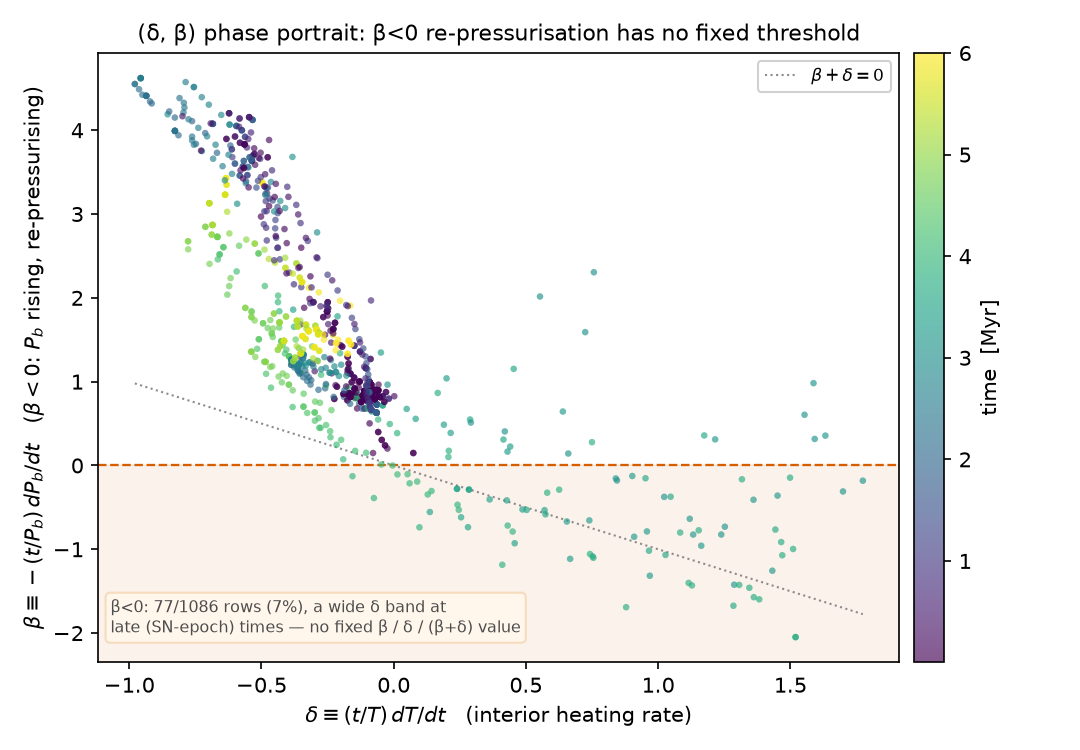
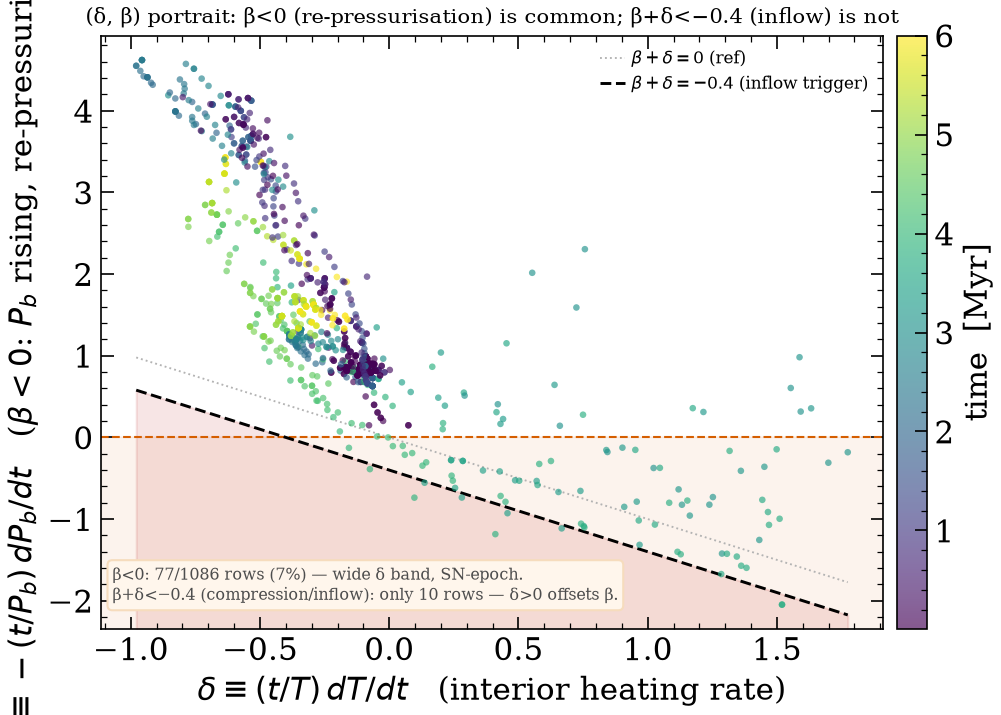
correct the structural diagnostic: beta+delta (not beta alone, not beta+delta=0)
Per docs/dev/archive/betadelta/: the interior velocity is driven by the dv/dr source
(beta+delta)/t = -t*dln(n)/dt, with an inflow trigger at beta+delta <~ -0.4 (-0.5 steep)
-- NOT beta alone, NOT beta+delta=0. beta<0 alone is only re-pressurisation (Pb rising);
delta>0 (T rising) partly cancels it.

Measured on our six (data/betadelta_summary.csv): beta dives to -1.6 (re-pressurisation
in 5/6), but beta+delta crosses -0.4 in ONLY large_diffuse (10 rows) -- delta offsets beta
everywhere else, so the compression/inflow trigger is essentially never reached. The
archive's inflow is 'real but cosmetic' (subsonic, ~1e-6 thermal), so this corrects the
diagnostic FRAMING, not the trigger verdict.

- plot_beta.py: now plots beta AND beta+delta with the -0.4 trigger line + sub-trigger
  shading; reads h0 (canonical); fixed parents[2]->parents[3] style-path bug.
- plot_phaseportrait.py: draws beta+delta=-0.4 (inflow trigger) + shaded region; the
  beta+delta=0 line demoted to a faint reference; same style-path fix.
- report: added the 'beta alone vs beta+delta' correction box; fixed the beta + portrait
  captions (removed the beta+delta=0 framing).
- data/betadelta_summary.csv: per-config min(beta), min(beta+delta), rows<-0.4.

diff --git a/docs/dev/transition/cleanroom/plot_beta.py b/docs/dev/transition/cleanroom/plot_beta.py
@@ -1,9 +1,17 @@
 #!/usr/bin/env python3
-"""beta re-pressurisation plot (PLAN.md S6.5 #6): per config, beta(t) with beta<0
-shaded (Pb rising = re-pressurisation) and Lmech_total overlaid -- do the negative-beta
-excursions line up with feedback (WR/SN) luminosity surges?
+"""beta / (beta+delta) re-pressurisation + compression plot.
 
-    python plot_beta.py docs/dev/transition/cleanroom/data/c0_*_st6.csv
+CORRECTION (2026-06-21, per docs/dev/archive/betadelta/): the structural quantity
+that drives the interior velocity is NOT beta alone, and NOT beta+delta=0 -- it is
+the dv/dr source term (beta+delta)/t = -t*dln(n)/dt, whose INFLOW trigger sits at
+beta+delta <~ -0.4 (steep) .. -0.5. beta<0 alone is only RE-PRESSURISATION (Pb
+rising); delta>0 (T rising) partly cancels it, so beta+delta is the physical
+compression term. This plot shows both, with the -0.4 inflow trigger marked: beta
+dives deep (re-pressurisation) but beta+delta mostly stays ABOVE -0.4 (no real
+compression/inflow). The archive's inflow is in any case "real but cosmetic"
+(subsonic, ~1e-6 of thermal).
+
+    python plot_beta.py docs/dev/transition/cleanroom/data/c0_*_h0.csv
 """
 from __future__ import annotations
 
@@ -14,55 +22,65 @@ matplotlib.use("Agg")
 import matplotlib.pyplot as plt
 
 HERE = Path(__file__).resolve().parent
-STYLE = HERE.parents[2] / "paper" / "_lib" / "trinity.mplstyle"
+STYLE = HERE.parents[3] / "paper" / "_lib" / "trinity.mplstyle"  # parents[3]=repo root
 if STYLE.exists():
     plt.style.use(str(STYLE))
 plt.rcParams["text.usetex"] = False
 
+BPD_TRIGGER = -0.4  # beta+delta inflow trigger (archive: -0.4 hunt .. -0.5 steep)
+
 
 def load(path):
-    t, b, lm, ph = [], [], [], []
+    t, b, d, lm = [], [], [], []
     for r in csv.DictReader(open(path)):
-        try:
-            tn = float(r["t_now"]); be = float(r["cool_beta"])
-        except (ValueError, TypeError, KeyError):
-            continue
         if r.get("phase") != "implicit":
             continue
-        t.append(tn); b.append(be)
+        try:
+            tn = float(r["t_now"]); be = float(r["cool_beta"]); de = float(r["cool_delta"])
+        except (ValueError, TypeError, KeyError):
+            continue
+        t.append(tn); b.append(be); d.append(de)
         try: lm.append(float(r["Lmech_total"]))
         except (ValueError, TypeError): lm.append(float("nan"))
-    return t, b, lm
+    return t, b, d, lm
 
 
 def main():
-    paths = sorted(sys.argv[1:] or glob.glob(str(HERE / "data" / "c0_*_st6.csv")))
+    paths = sorted(sys.argv[1:] or glob.glob(str(HERE / "data" / "c0_*_h0.csv")))
     paths = [p for p in paths if load(p)[0]]
     n = len(paths)
     if not n:
         sys.exit("no usable CSVs")
-    fig, axes = plt.subplots(n, 1, figsize=(7.2, 1.7 * n + 0.6), sharex=True, squeeze=False)
+    fig, axes = plt.subplots(n, 1, figsize=(7.6, 1.8 * n + 0.6), sharex=True, squeeze=False)
     for ax, p in zip(axes[:, 0], paths):
-        name = Path(p).name.replace("c0_", "").replace("_st6.csv", "")
-        t, b, lm = load(p)
+        name = Path(p).name.replace("c0_", "").replace("_h0.csv", "").replace("_st6.csv", "")
+        t, b, d, lm = load(p)
+        bpd = [bi + di for bi, di in zip(b, d)]
         fneg = sum(1 for x in b if x < 0) / len(b)
+        ntrig = sum(1 for x in bpd if x < BPD_TRIGGER)
         ax.axhline(0, color="0.6", lw=0.8)
-        ax.plot(t, b, color="#0072B2", lw=1.3, label=r"$\beta$")
-        ax.fill_between(t, b, 0, where=[x < 0 for x in b], color="#D55E00", alpha=0.4,
-                        interpolate=True)
-        ax.set_ylabel(r"$\beta$", color="#0072B2")
-        ax.text(0.99, 0.05, f"{name}  (beta<0: {fneg:.0%})", transform=ax.transAxes,
-                ha="right", va="bottom", fontsize=8)
+        ax.axhline(BPD_TRIGGER, color="k", ls="--", lw=1.0)  # inflow trigger
+        ax.plot(t, b, color="#0072B2", lw=1.1, label=r"$\beta$ ($P_b$ rate)")
+        ax.plot(t, bpd, color="#D55E00", lw=1.7, label=r"$\beta+\delta$ (compression)")
+        # shade only where beta+delta actually dips below the inflow trigger
+        ax.fill_between(t, bpd, BPD_TRIGGER, where=[x < BPD_TRIGGER for x in bpd],
+                        color="#b30000", alpha=0.35, interpolate=True)
+        ax.set_ylabel(r"$\beta,\ \beta+\delta$")
+        ax.text(0.99, 0.05, f"{name}   β<0: {fneg:.0%}   rows β+δ<−0.4: {ntrig}",
+                transform=ax.transAxes, ha="right", va="bottom", fontsize=8)
         ax2 = ax.twinx()
-        ax2.plot(t, lm, color="0.45", lw=1.0, ls=":")
-        ax2.set_yscale("log"); ax2.set_ylabel(r"$L_{\rm mech}$", color="0.45", fontsize=8)
-    axes[0, 0].set_title(r"$\beta(t)$ (red = $\beta<0$, $P_b$ rising) vs mechanical luminosity")
+        ax2.plot(t, lm, color="0.55", lw=1.0, ls=":")
+        ax2.set_yscale("log"); ax2.set_ylabel(r"$L_{\rm mech}$", color="0.55", fontsize=8)
+    axes[0, 0].legend(loc="upper left", fontsize=8, framealpha=0.9)
+    axes[0, 0].set_title(r"$\beta$ (re-pressurisation, $P_b\!\uparrow$) vs $\beta+\delta$ "
+                         r"(compression; inflow trigger $\beta+\delta\lesssim-0.4$, dashed)")
     axes[-1, 0].set_xlabel("time  [Myr]")
     fig.tight_layout()
     out = HERE / "figures"; out.mkdir(exist_ok=True)
     for ext in ("pdf", "png"):
         fig.savefig(out / f"beta_repressurization.{ext}", dpi=150)
-    print(f"wrote {out}/beta_repressurization.(pdf,png) from {n} configs")
+    print(f"wrote {out}/beta_repressurization.(pdf,png) from {n} configs "
+          f"(beta vs beta+delta, inflow trigger {BPD_TRIGGER})")
 
 
 if __name__ == "__main__":

diff --git a/docs/dev/transition/cleanroom/plot_phaseportrait.py b/docs/dev/transition/cleanroom/plot_phaseportrait.py
@@ -1,17 +1,18 @@
 #!/usr/bin/env python3
 """New-findings figure: the (delta, beta) phase portrait (user Q follow-up, 2026-06-20).
 
-The surge_coincidence diagnostic showed the F0-ratio surge co-moves with beta
-DROPPING (re-pressurisation) but at no fixed beta/delta value. This 2-D view makes
-that geometric: every implicit-phase row of all six runs, plotted in (delta, beta)
-space and coloured by time. The beta<0 half (re-pressurisation / negative velocity
-structure) is shaded; the beta+delta=0 diagonal is drawn so one can read whether
-re-pressurisation sits on any fixed beta+delta contour (it does not).
+CORRECTION (2026-06-21, per docs/dev/archive/betadelta/): the structural quantity
+that governs the interior velocity is the dv/dr source (beta+delta)/t = -t*dln(n)/dt,
+with an inflow trigger at beta+delta <~ -0.4 -- NOT beta alone, NOT beta+delta=0.
+This 2-D view: every implicit-phase row of all six runs in (delta, beta) space,
+coloured by time. beta<0 (re-pressurisation, Pb rising) is shaded; the REAL
+threshold beta+delta=-0.4 (inflow) is drawn (the beta+delta=0 line is only a faint
+reference).
 
-The story by shape: beta<0 points are NOT a tight cluster at one (beta,delta) or
-one beta+delta value -- they sweep a band, and they light up at the late-time
-(SN-epoch) colours where delta is large/positive. Re-pressurisation is a feedback
-event, not a structure threshold.
+The story by shape: beta dives well below 0 at the SN epoch (re-pressurisation),
+but the points stay ABOVE the beta+delta=-0.4 line because delta>0 (T rising)
+offsets beta -- so net compression/inflow almost never triggers. Re-pressurisation
+(beta<0) is common; compression (beta+delta<-0.4) is not.
 
 Pure read of the committed data/c0_*_st6.csv; no re-run.
 
@@ -29,7 +30,7 @@ matplotlib.use("Agg")
 import matplotlib.pyplot as plt
 
 HERE = Path(__file__).resolve().parent
-STYLE = HERE.parents[2] / "paper" / "_lib" / "trinity.mplstyle"
+STYLE = HERE.parents[3] / "paper" / "_lib" / "trinity.mplstyle"  # parents[3]=repo root
 if STYLE.exists():
     plt.style.use(str(STYLE))
 plt.rcParams["text.usetex"] = False
@@ -56,23 +57,29 @@ def main():
         sys.exit("no implicit-phase (beta,delta) rows found")
     t = [x[0] for x in rows]; d = [x[1] for x in rows]; b = [x[2] for x in rows]
     nneg = sum(1 for bb in b if bb < 0)
+    ntrig = sum(1 for x in rows if x[1] + x[2] < -0.4)  # beta+delta < -0.4 inflow trigger
 
     fig, ax = plt.subplots(figsize=(7.2, 5.0))
     dlo, dhi = min(d), max(d)
-    ax.axhspan(min(b) - 0.5, 0, color="#D55E00", alpha=0.08, zorder=0)        # beta<0 region
-    ax.axhline(0, color="#D55E00", lw=1.1, ls="--", zorder=2)
-    ax.plot([dlo, dhi], [-dlo, -dhi], color="0.55", lw=1.0, ls=":", zorder=2,
-            label=r"$\beta+\delta=0$")
+    ax.axhspan(min(b) - 0.5, 0, color="#D55E00", alpha=0.07, zorder=0)        # beta<0 region
+    ax.axhline(0, color="#D55E00", lw=1.0, ls="--", zorder=2)
+    ax.plot([dlo, dhi], [-dlo, -dhi], color="0.7", lw=0.9, ls=":", zorder=2,
+            label=r"$\beta+\delta=0$ (ref)")
+    # the REAL structural threshold: beta+delta = -0.4 (interior-inflow trigger); below = compression
+    ax.plot([dlo, dhi], [-0.4 - dlo, -0.4 - dhi], color="k", lw=1.4, ls="--", zorder=2,
+            label=r"$\beta+\delta=-0.4$ (inflow trigger)")
+    ax.fill_between([dlo, dhi], [-0.4 - dlo, -0.4 - dhi], min(b) - 0.5,
+                    color="#b30000", alpha=0.10, zorder=1)
     sc = ax.scatter(d, b, c=t, cmap="viridis", s=10, alpha=0.65, linewidths=0, zorder=3)
     cb = fig.colorbar(sc, ax=ax, pad=0.015)
     cb.set_label("time  [Myr]")
 
     ax.set_xlabel(r"$\delta \equiv (t/T)\,dT/dt$   (interior heating rate)")
     ax.set_ylabel(r"$\beta \equiv -(t/P_b)\,dP_b/dt$   ($\beta<0$: $P_b$ rising, re-pressurising)")
-    ax.set_title("(δ, β) phase portrait: β<0 re-pressurisation has no fixed threshold",
-                 fontsize=10.5)
-    ax.text(0.015, 0.04, f"β<0: {nneg}/{len(rows)} rows ({100*nneg/len(rows):.0f}%), a wide δ band at\n"
-            "late (SN-epoch) times — no fixed β / δ / (β+δ) value",
+    ax.set_title("(δ, β) portrait: β<0 (re-pressurisation) is common; β+δ<−0.4 (inflow) is not",
+                 fontsize=10)
+    ax.text(0.015, 0.04, f"β<0: {nneg}/{len(rows)} rows ({100*nneg/len(rows):.0f}%) — wide δ band, "
+            f"SN-epoch.\nβ+δ<−0.4 (compression/inflow): only {ntrig} rows — δ>0 offsets β.",
             transform=ax.transAxes, ha="left", va="bottom", fontsize=7.8, color="0.3",
             bbox=dict(boxstyle="round,pad=0.3", fc="#fff6ec", ec="#f6dcbd"))
     ax.legend(fontsize=8, loc="upper right", framealpha=0.9)

diff --git a/docs/dev/transition/cleanroom/make_transition_report.py b/docs/dev/transition/cleanroom/make_transition_report.py
@@ -199,10 +199,20 @@ integrated budget. <b>(b) hybr finds the true root:</b> legacy clamped the cooli
 so \(P_b\) could only decline and the ratio drifted to balance; hybr is unbounded with a physical
 \(dM/dt>0\) gate and in places returns <b>negative \(\beta\)</b> (\(P_b\) <i>rising</i> &mdash; the bubble
 re-pressurising under a feedback surge), keeping the interior net-heating.</p>
-<figure>__FIG_BETA__<figcaption>Why balance is never reached: \(\beta(t)\) per config (blue), with
-\(\beta<0\) re-pressurisation shaded, over \(L_{\text{mech}}\) (grey). Negative-\(\beta\) segments appear in
-<b>all six</b> configs at the SN epoch (1&ndash;12% of implicit rows). Pure read of <code>data/c0_*_st6.csv</code>
-via <code>plot_beta.py</code>.</figcaption></figure>
+<div class="box over"><div class="lab">β alone vs β+δ &mdash; the right compression variable</div>A correction worth stating
+plainly (per the archived β&ndash;δ study): the structural quantity that governs the interior velocity is
+<b>not β alone, and not β+δ=0</b>. The bubble velocity ODE source term is \((\beta+\delta)/t = -t\,d\ln n/dt\),
+so <b>β+δ</b> is the compression term and its interior-inflow trigger sits at <b>β+δ ≲ −0.4</b> (−0.5 for the
+steep archive config). β&lt;0 by itself is only <i>re-pressurisation</i> (\(P_b\) rising); δ&gt;0 (T rising)
+partly cancels it. In our six, β dives to <b>−1.6</b> (re-pressurisation in 5/6), but β+δ crosses −0.4 in
+<b>only one</b> (large_diffuse, 10 rows) &mdash; everywhere else δ offsets β and the net compression stays above
+the trigger. The archive's resulting inflow is in any case <b>&ldquo;real but cosmetic&rdquo;</b> (subsonic,
+~10⁻⁶ of thermal), not an energy-budget term &mdash; so this corrects the <i>diagnostic framing</i>, not the
+trigger verdict.</div>
+<figure>__FIG_BETA__<figcaption>β (blue, the \(P_b\)-rate) vs β+δ (orange, the compression source) per config,
+with the β+δ=−0.4 inflow trigger (dashed) and the sub-trigger region shaded red. β dives deep at the WR/SN
+surge, but β+δ stays <i>above</i> −0.4 in 5/6 &mdash; only large_diffuse reaches it. Pure read of
+<code>data/c0_*_h0.csv</code> via <code>plot_beta.py</code>.</figcaption></figure>
 <p><b>So what actually triggers a surge &mdash; feedback, or the structure (\(\beta,\delta\))?</b> We measured
 both, per config, making no assumptions (step-to-step correlation of the ratio change \(\Delta r\) with
 \(\Delta L_{\text{mech}}\), \(\Delta\beta\), \(\Delta\delta\), over the implicit rows of each
@@ -221,11 +231,13 @@ re-pressurisation is a <i>co-symptom</i> of the surge, not its threshold.</p>
 that simultaneously re-pressurises the bubble (\(\beta\) drops). Pure read of <code>data/c0_*_h0.csv</code>
 via <code>plot_surge.py</code> (table in <code>data/surge_coincidence.csv</code>).</figcaption></figure>
 <figure>__FIG_PORTRAIT__<figcaption>The same answer in 2-D: every implicit-phase row of all six runs in
-\((\delta,\beta)\) space, coloured by time. The re-pressurisation band (\(\beta<0\), shaded) is not a tight
-cluster at one \(\beta\), \(\delta\), or \(\beta+\delta\) value (the dotted \(\beta+\delta=0\) line is only a
-reference) &mdash; it sweeps a wide \(\delta>0\) band and lights up at the \(\sim\!3\) Myr SN-epoch colours.
-Re-pressurisation is a late-time <i>feedback</i> event, not a structure threshold. Pure read of
-<code>data/c0_*_st6.csv</code> via <code>plot_phaseportrait.py</code>.</figcaption></figure>
+\((\delta,\beta)\) space, coloured by time. The re-pressurisation rows (\(\beta<0\), shaded) sweep a wide
+\(\delta>0\) band and light up at the \(\sim\!3\) Myr SN-epoch colours &mdash; that \(\delta>0\) (T rising) is
+exactly what holds \(\beta+\delta\) above the inflow trigger: the dashed \(\beta+\delta=-0.4\) line (the
+compression/inflow threshold, <b>not</b> \(\beta+\delta=0\)) is barely touched, and only by large_diffuse. So
+re-pressurisation (\(\beta<0\)) is a late-time <i>feedback</i> event, while net compression
+(\(\beta+\delta<-0.4\)) almost never happens. Pure read of <code>data/c0_*_st6.csv</code> via
+<code>plot_phaseportrait.py</code>.</figcaption></figure>
 <div class="box hyp"><div class="lab">the fork this sets up</div>Two honest readings, both kept open: either the
 criterion needs replacing for the hybr regime (a <b>trigger</b> problem), or the bubble retains too much
 energy to ever balance because the cooling physics is incomplete (a <b>physics</b> problem). The rest of the